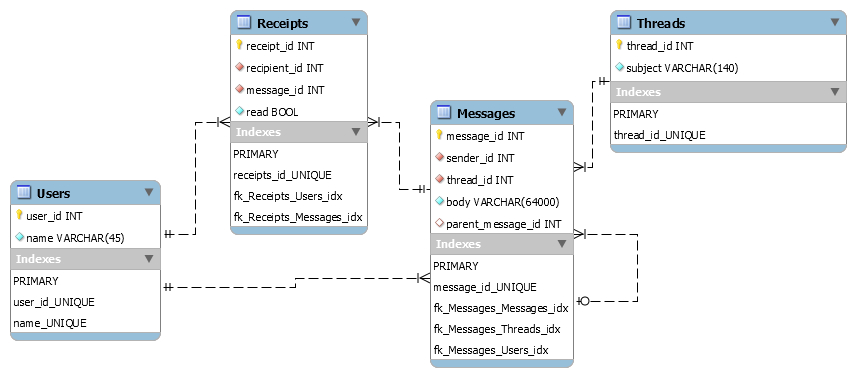
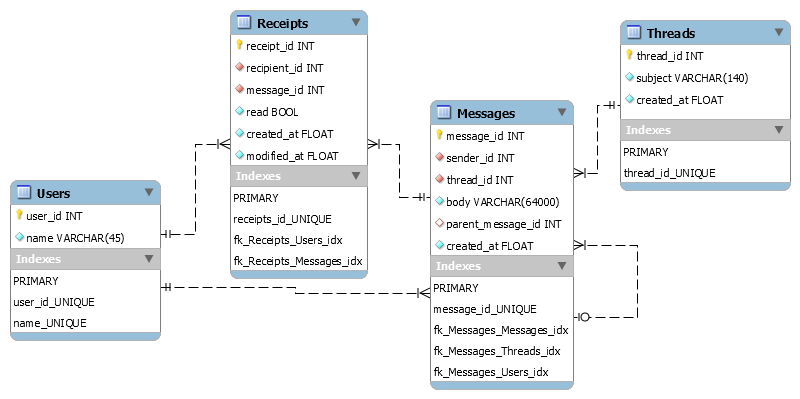
Add created_at and modified_at.

Changed region(s): [[0.0, 0.0, 1.0, 0.992], [0.2188, 0.5252, 0.25, 0.5544]]

diff --git a/api/api.md b/api/api.md
@@ -40,6 +40,8 @@ Name     | Type      | Description
                     "subject": "Favorite programming language?",
                     "body": "I really like Fortran.",
                     "read": true
+                    "created_at": 1095379.00
+                    "modified_at": 1095379.00
                 },
                 {
                     "id": 55,
@@ -48,6 +50,8 @@ Name     | Type      | Description
                     "subject": "What's for dinner?",
                     "body": "I'm so hungry I could eat a horse.",
                     "read": true
+                    "created_at": 1095379200.00
+                    "modified_at": 1095379200.00
                 },
                 {
                     "id": 62,
@@ -57,6 +61,8 @@ Name     | Type      | Description
                     "subject": "What's for dinner?",
                     "body": "Leave my horse alone! Go make a sandwich.",
                     "read": false
+                    "created_at": 1095379300.00
+                    "modified_at": 1095379300.00
                 }
             ]
 
@@ -88,7 +94,7 @@ Name           | Type      | Description
 
     Headers:
 
-            Location: /messages/5
+            Location: /messages/55
 
     Body:
 
@@ -98,10 +104,13 @@ Name           | Type      | Description
                 "recipient_id": 92,
                 "subject": "What's for dinner?",
                 "body": "I'm so hungry I could eat a horse.",
-                "read": false
+                "created_at": 1095379200.00
             }
 
 #### Response 422 UNPROCESSABLE ENTITY (application/json)
+
+In the case of a full API doc all error codes would be listed to allow for developers to
+be able to give their own messages in the case of certain error codes.
 
             {
                 "code" : 1024,
@@ -135,6 +144,8 @@ Name           | Type      | Description
                 "subject": "What's for dinner?",
                 "body": "I'm so hungry I could eat a horse.",
                 "read": false
+                "created_at": 1095379200.00
+                "modified_at": 1095379200.00
             }
 
 #### Response 404 NOT FOUND
@@ -176,11 +187,17 @@ Name           | Type      | Description
 
 #### Request (application/json)
 
-            {
-                "body": "Leave my horse alone! Go make a sandwich."
-            }
+        {
+            "body": "Leave my horse alone! Go make a sandwich."
+        }
 
 #### Response 201 (application/json)
+
+    Headers:
+
+        Location: /messages/62
+
+    Body:
 
         {
             "id": 62,
@@ -189,7 +206,7 @@ Name           | Type      | Description
             "parent_id": 5
             "subject": "What's for dinner?",
             "body": "Leave my horse alone! Go make a sandwich.",
-            "read": false
+            "created_at": 1095379300.00
         }
 
 ## Get all the messages in the reply thread of this message
@@ -207,7 +224,7 @@ Name     | Type      | Description
 
     Headers:
 
-        Link : <http://api.messagecenter.ex/messages?max_id=55>; rel="next", <http:///api.messagecenter.ex/messages?max_id=110>; rel="last"
+        Link : <http://api.messagecenter.ex/messages?max_id=55>; rel="next", <http:///api.messagecenter.ex/messages?max_id=11>; rel="last"
 
     Body:
         {
@@ -219,6 +236,7 @@ Name     | Type      | Description
                     "subject": "What's for dinner?",
                     "body": "I'm so hungry I could eat a horse.",
                     "read": true
+                    "created_at": 1095379200.00
                 },
                 {
                     "id": 62,
@@ -227,7 +245,9 @@ Name     | Type      | Description
                     "parent_id": 5
                     "subject": "What's for dinner?",
                     "body": "Leave my horse alone! Go make a sandwich.",
-                    "read": false
+                    "read": true
+                    "created_at": 1095379300.00
+                    "modified_at": 109538111.00
                 }
             ]
         }

diff --git a/README.md b/README.md
@@ -52,9 +52,9 @@ Example of paginating through the latest messages, 30 at a time:
 
 We can leverage HTTP features for caching on the client side:
 
-**ETag:** The server would need to provide the [`ETag`](http://www.w3.org/Protocols/rfc2616/rfc2616-sec14.html#sec14.19) header. The client can make a request with the [`If-None-Match`](http://www.w3.org/Protocols/rfc2616/rfc2616-sec14.html#sec14.26) header containing an ETag value. The backend can then respond with a `304 Not Modified` status code if the list of messages has not changed. This allows for the client to ask for updates, and the server will only transfer large amounts of data when necessary.
+**ETag:** The server would need to provide the [`ETag`](http://www.w3.org/Protocols/rfc2616/rfc2616-sec14.html#sec14.19) header. In the simplist case for a user's messages the Etag could be the count of that user's messages. The client can make a request with the [`If-None-Match`](http://www.w3.org/Protocols/rfc2616/rfc2616-sec14.html#sec14.26) header containing an ETag value. The backend can then respond with a `304 Not Modified` status code if the list of messages has not changed. This allows for the client to ask for updates, and the server will only transfer large amounts of data when necessary.
 
-**Last Modified**: The server would include the [`Last-Modified`](http://www.w3.org/Protocols/rfc2616/rfc2616-sec14.html#sec14.19) header The client can make a request with the [`If-Modified-Since`](http://www.w3.org/Protocols/rfc2616/rfc2616-sec14.html#sec14.25) header. The server will respond with `304 Not Modified` if the return value has not changed since the date and time that was provided in the header.
+**Last Modified**: The server would include the [`Last-Modified`](http://www.w3.org/Protocols/rfc2616/rfc2616-sec14.html#sec14.19) header. The client can make a request with the [`If-Modified-Since`](http://www.w3.org/Protocols/rfc2616/rfc2616-sec14.html#sec14.25) header. The server will respond with `304 Not Modified` if the return value has not changed since the date and time that was provided in the header.
 
 ## References
 
